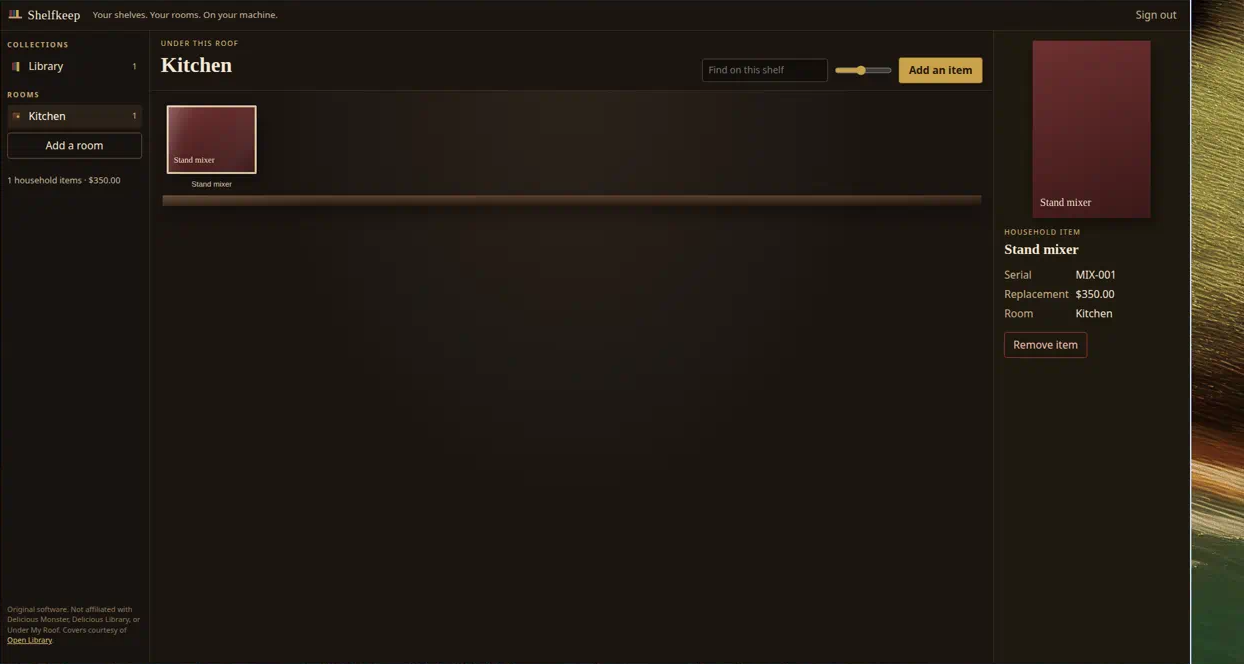
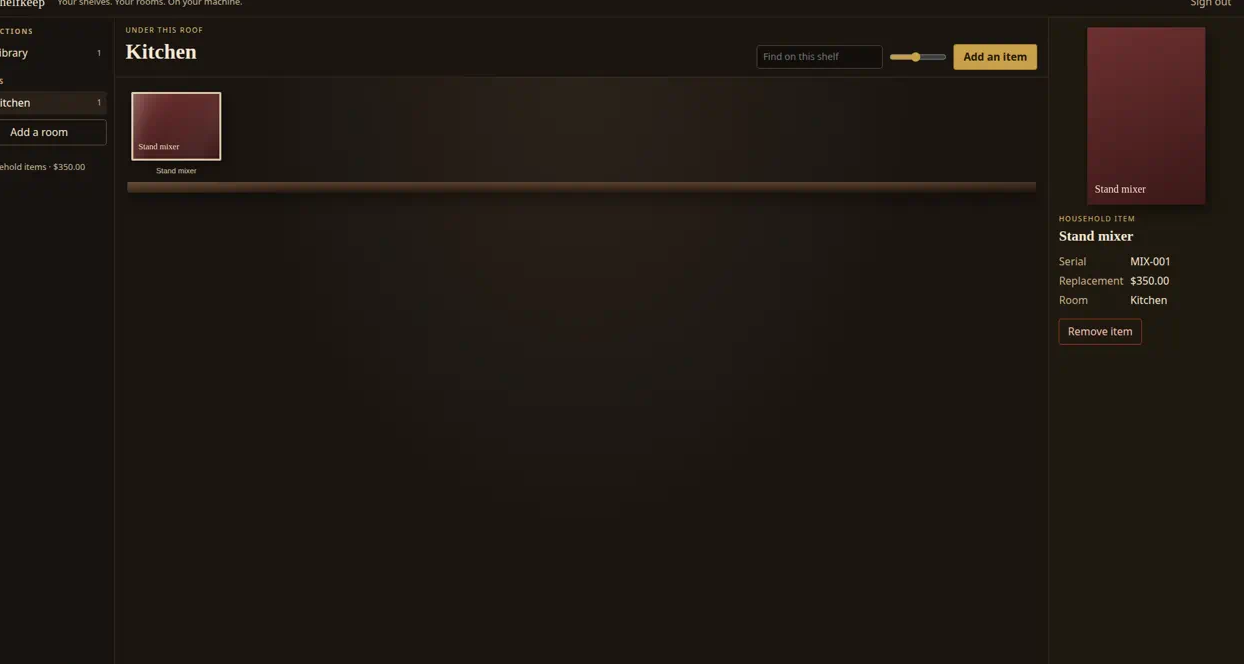
Drop competitor names from the running Shelfkeep UI
Replace the workspace footer and OpenAPI description with stand-alone
Shelfkeep / Open Library copy. Keep the legal non-affiliation paragraph
in README and CONTRIBUTING. Tests assert competitor names are absent
from workspace, login, and OpenAPI HTML.

Changed region(s): [[0.0, 0.0, 1.0, 0.6024], [0.9469, 0.6325, 1.0, 1.0], [0.0, 0.9036, 0.1222, 0.994]]

diff --git a/app/templates/workspace.html b/app/templates/workspace.html
@@ -37,7 +37,7 @@
         <button type="button" class="ghost-btn nav-add" data-open="add-room">Add a room</button>
       </section>
       <p class="nav-value">{{ total_items }} household items · ${{ total_value }}</p>
-      <p class="legal-mini">Original software. Not affiliated with Delicious Monster, Delicious Library, or Under My Roof. Covers courtesy of <a href="https://openlibrary.org" rel="noreferrer">Open Library</a>.</p>
+      <p class="legal-mini">Shelfkeep. Covers courtesy of <a href="https://openlibrary.org" rel="noreferrer">Open Library</a>.</p>
     </nav>
 
     <section class="pane pane-stage">

diff --git a/tests/test_workspace.py b/tests/test_workspace.py
@@ -1,5 +1,19 @@
 from pathlib import Path
 
+COMPETITOR_NAMES = (
+    "Delicious Monster",
+    "Delicious Library",
+    "Under My Roof",
+    "Delicious",
+)
+
+
+def _assert_stand_alone_chrome(html: str) -> None:
+    for name in COMPETITOR_NAMES:
+        assert name not in html
+    assert "Open Library" in html
+    assert "Shelfkeep" in html
+
 
 def test_workspace_is_three_panes(auth_client):
     page = auth_client.get("/")
@@ -10,8 +24,22 @@ def test_workspace_is_three_panes(auth_client):
     assert "Collections" in page.text
     assert "Rooms" in page.text
     assert 'class="nav-value"' in page.text
-    assert "Delicious Library" not in page.text or "Not affiliated" in page.text
-    assert "Delicious Monster" in page.text  # affiliation disclaimer only
+    _assert_stand_alone_chrome(page.text)
+
+
+def test_login_and_openapi_have_no_competitor_names(client, auth_client):
+    login = client.get("/login")
+    assert login.status_code == 200
+    for name in COMPETITOR_NAMES:
+        assert name not in login.text
+    assert "Shelfkeep" in login.text
+
+    spec = auth_client.get("/openapi.json")
+    assert spec.status_code == 200
+    description = spec.json()["info"]["description"]
+    for name in COMPETITOR_NAMES:
+        assert name not in description
+    assert "self-hosted catalog" in description.lower()
 
 
 def test_workspace_js_refreshes_inventory_summary():

diff --git a/app/main.py b/app/main.py
@@ -72,8 +72,7 @@ def _seed_library() -> None:
 app = FastAPI(
     title="Shelfkeep",
     version=__version__,
-    description="Self-hosted catalog and home inventory. Original software, not affiliated "
-    "with Delicious Monster or Under My Roof.",
+    description="Self-hosted catalog and home inventory.",
     lifespan=lifespan,
 )
 
